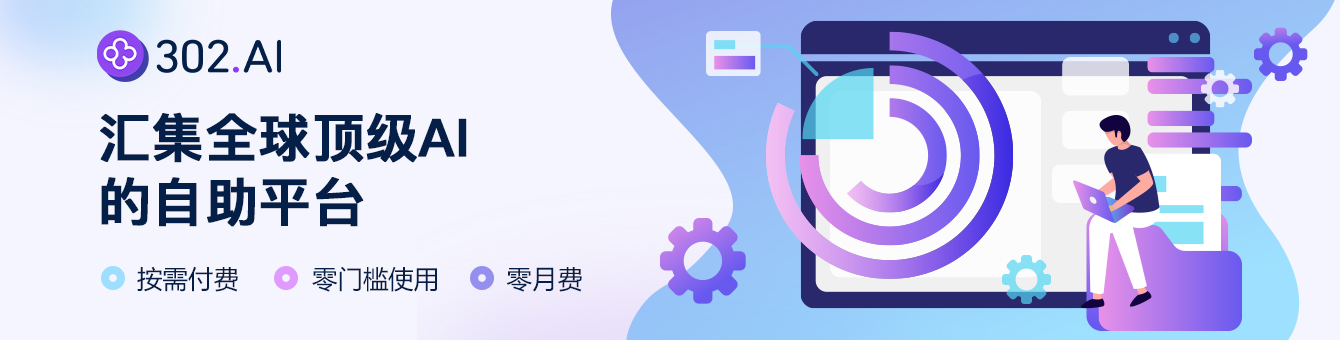
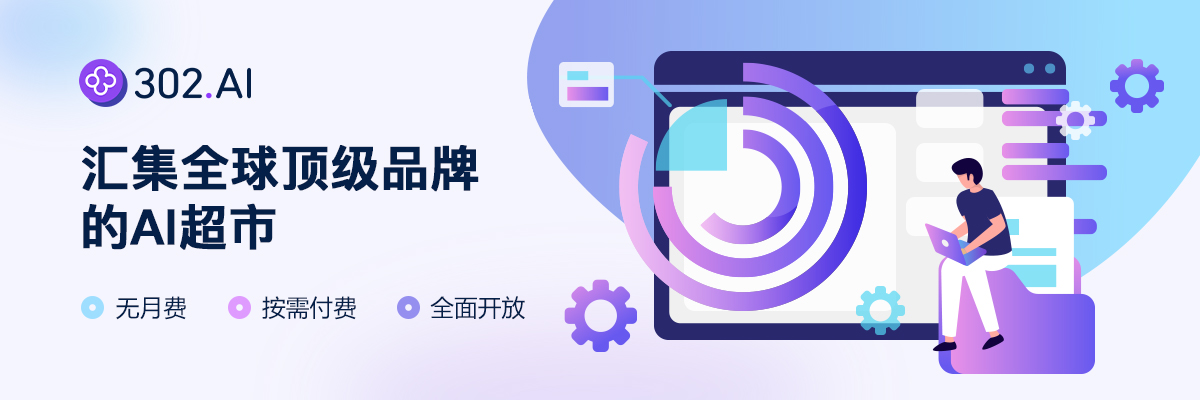
docs: update sponsor

diff --git a/README-zh.md b/README-zh.md
@@ -6,7 +6,8 @@
 </a>
 
 > [Sponsor - 赞助]  
-> <a href="https://302.ai/" target="_blank">302.AI</a>是一个集成了全球主流AI的自助平台，帮你一站式搞定：AI聊天、图片生成、图片处理、视频生成等必备AI工具，零月费，按需付费，数据本地存储，国内可直连，省钱又省心。  
+> <a href="https://302.ai/" target="_blank">302.AI</a>302.AI是一个汇集全球顶级品牌的AI超市，按需付费，零月费，零门槛使用各种类型AI。
+>
 > 新用户免费<a href="https://gpt302.saaslink.net/Y3CmW1" target="_blank">领1美元额度⚡</a>   
 > 每天5美金额度的<a href="https://weijunext-all.tools302.com?region=1&pwd=8729" target="_blank">GPT-4🤖</a>
 

diff --git a/README.md b/README.md
@@ -6,7 +6,8 @@
 </a>
 
 > [Sponsor - 赞助]  
-> <a href="https://302.ai/" target="_blank">302.AI</a>是一个集成了全球主流AI的自助平台，帮你一站式搞定：AI聊天、图片生成、图片处理、视频生成等必备AI工具，零月费，按需付费，数据本地存储，国内可直连，省钱又省心。  
+> <a href="https://302.ai/" target="_blank">302.AI</a>是一个汇集全球顶级品牌的AI超市，按需付费，零月费，零门槛使用各种类型AI。
+>  
 > 新用户免费<a href="https://gpt302.saaslink.net/Y3CmW1" target="_blank">领1美元额度⚡</a>   
 > 每天5美金额度的<a href="https://weijunext-all.tools302.com?region=1&pwd=8729" target="_blank">GPT-4🤖</a>
 
